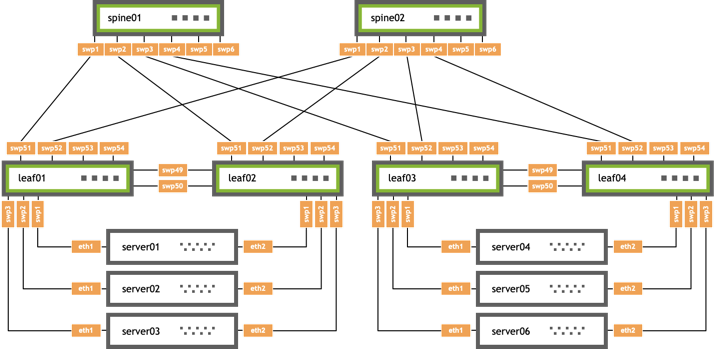
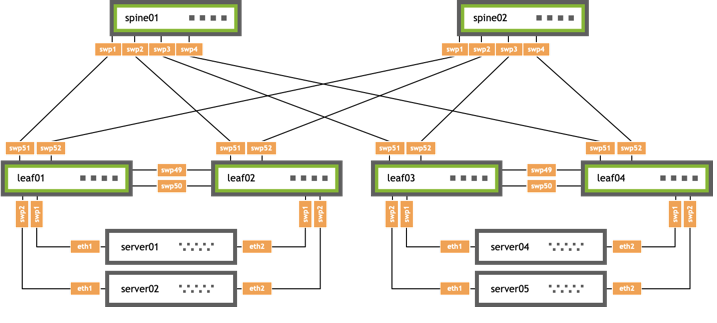
updated images

diff --git a/content/cumulus-linux-42/Network-Virtualization/Ethernet-Virtual-Private-Network-EVPN/Configuration-Examples.md b/content/cumulus-linux-42/Network-Virtualization/Ethernet-Virtual-Private-Network-EVPN/Configuration-Examples.md
@@ -1432,98 +1432,6 @@ iface swp6
 
 {{< /tab >}}
 
-{{< tab "spine03 ">}}
-
-```
-cumulus@spine03:~$ cat /etc/network/interfaces
-
-auto lo
-iface lo inet loopback
-    address 10.10.10.103/32
-
-auto mgmt
-iface mgmt
-    vrf-table auto
-    address 127.0.0.1/8
-    address ::1/128
-
-auto eth0
-iface eth0 inet dhcp
-    vrf mgmt
-
-auto swp1
-iface swp1
-    alias leaf to spine
-
-auto swp2
-iface swp2
-    alias leaf to spine
-
-auto swp3
-iface swp3
-    alias leaf to spine
-
-auto swp4
-iface swp4
-    alias leaf to spine
-
-auto swp5
-iface swp5
-    alias leaf to spine
-
-auto swp6
-iface swp6
-    alias leaf to spine
-```
-
-{{< /tab >}}
-
-{{< tab "spine04 ">}}
-
-```
-cumulus@spine04:~$ cat /etc/network/interfaces
-
-auto lo
-iface lo inet loopback
-    address 10.10.10.104/32
-
-auto mgmt
-iface mgmt
-    vrf-table auto
-    address 127.0.0.1/8
-    address ::1/128
-
-auto eth0
-iface eth0 inet dhcp
-    vrf mgmt
-
-auto swp1
-iface swp1
-    alias leaf to spine
-
-auto swp2
-iface swp2
-    alias leaf to spine
-
-auto swp3
-iface swp3
-    alias leaf to spine
-
-auto swp4
-iface swp4
-    alias leaf to spine
-
-auto swp5
-iface swp5
-    alias leaf to spine
-
-auto swp6
-iface swp6
-    alias leaf to spine
-```
-
-{{< /tab >}}
-
 {{< tab "border01 ">}}
 
 ```
@@ -1947,84 +1855,6 @@ log syslog informational
 !
 router bgp 65199
  bgp router-id 10.10.10.102
- bgp bestpath as-path multipath-relax
- neighbor underlay peer-group
- neighbor underlay remote-as external
- neighbor swp1 interface peer-group underlay
- neighbor swp2 interface peer-group underlay
- neighbor swp3 interface peer-group underlay
- neighbor swp4 interface peer-group underlay
- neighbor swp5 interface peer-group underlay
- neighbor swp6 interface peer-group underlay
- !
- !
- address-family ipv4 unicast
-  redistribute connected
- exit-address-family
- !
- address-family l2vpn evpn
-  neighbor underlay activate
- exit-address-family
-!
-
-!
-line vty
-!
-```
-
-{{< /tab >}}
-
-{{< tab "spine03 ">}}
-
-```
-cumulus@spine03:~$ cat /etc/frr/frr.conf
-...
-service integrated-vtysh-config
-!
-log syslog informational
-!
-!
-router bgp 65199
- bgp router-id 10.10.10.103
- bgp bestpath as-path multipath-relax
- neighbor underlay peer-group
- neighbor underlay remote-as external
- neighbor swp1 interface peer-group underlay
- neighbor swp2 interface peer-group underlay
- neighbor swp3 interface peer-group underlay
- neighbor swp4 interface peer-group underlay
- neighbor swp5 interface peer-group underlay
- neighbor swp6 interface peer-group underlay
- !
- !
- address-family ipv4 unicast
-  redistribute connected
- exit-address-family
- !
- address-family l2vpn evpn
-  neighbor underlay activate
- exit-address-family
-!
-
-!
-line vty
-!
-```
-
-{{< /tab >}}
-
-{{< tab "spine04 ">}}
-
-```
-cumulus@spine04:~$ cat /etc/frr/frr.conf
-...
-service integrated-vtysh-config
-!
-log syslog informational
-!
-!
-router bgp 65199
- bgp router-id 10.10.10.104
  bgp bestpath as-path multipath-relax
  neighbor underlay peer-group
  neighbor underlay remote-as external
